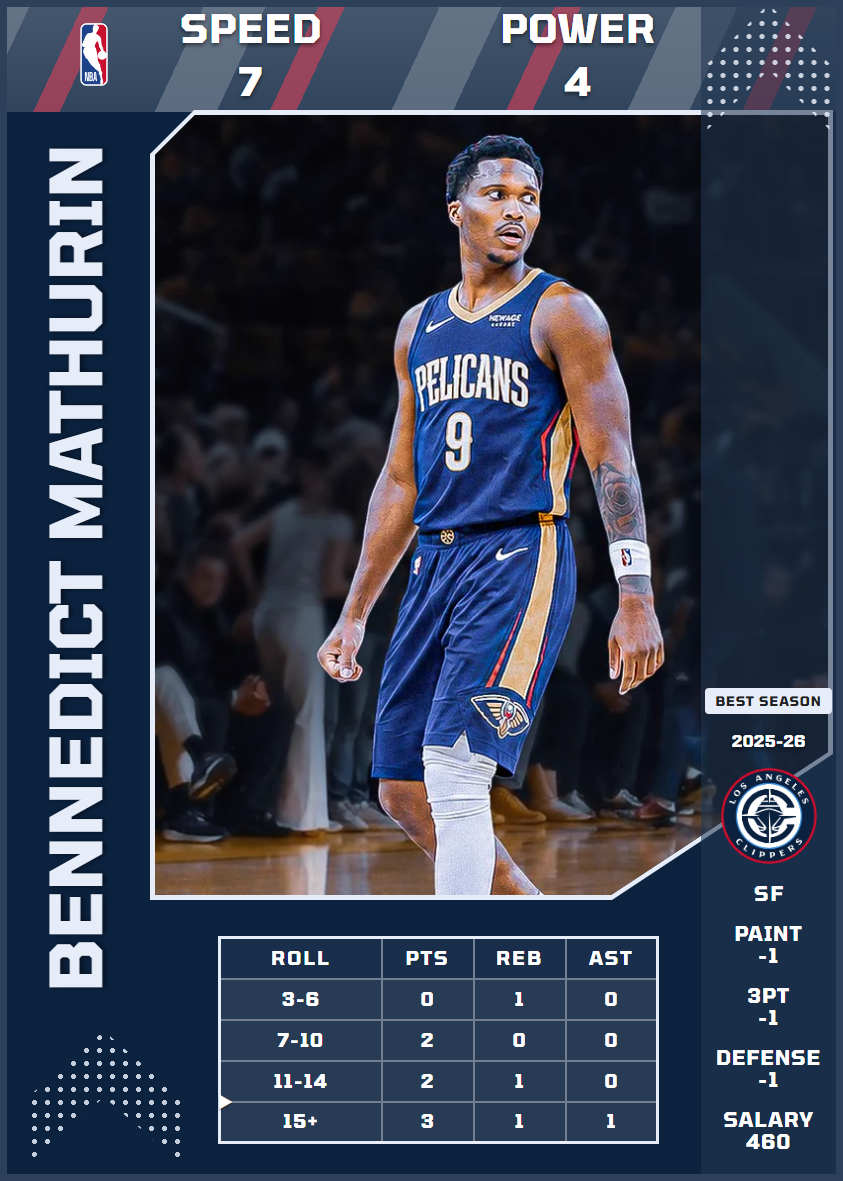
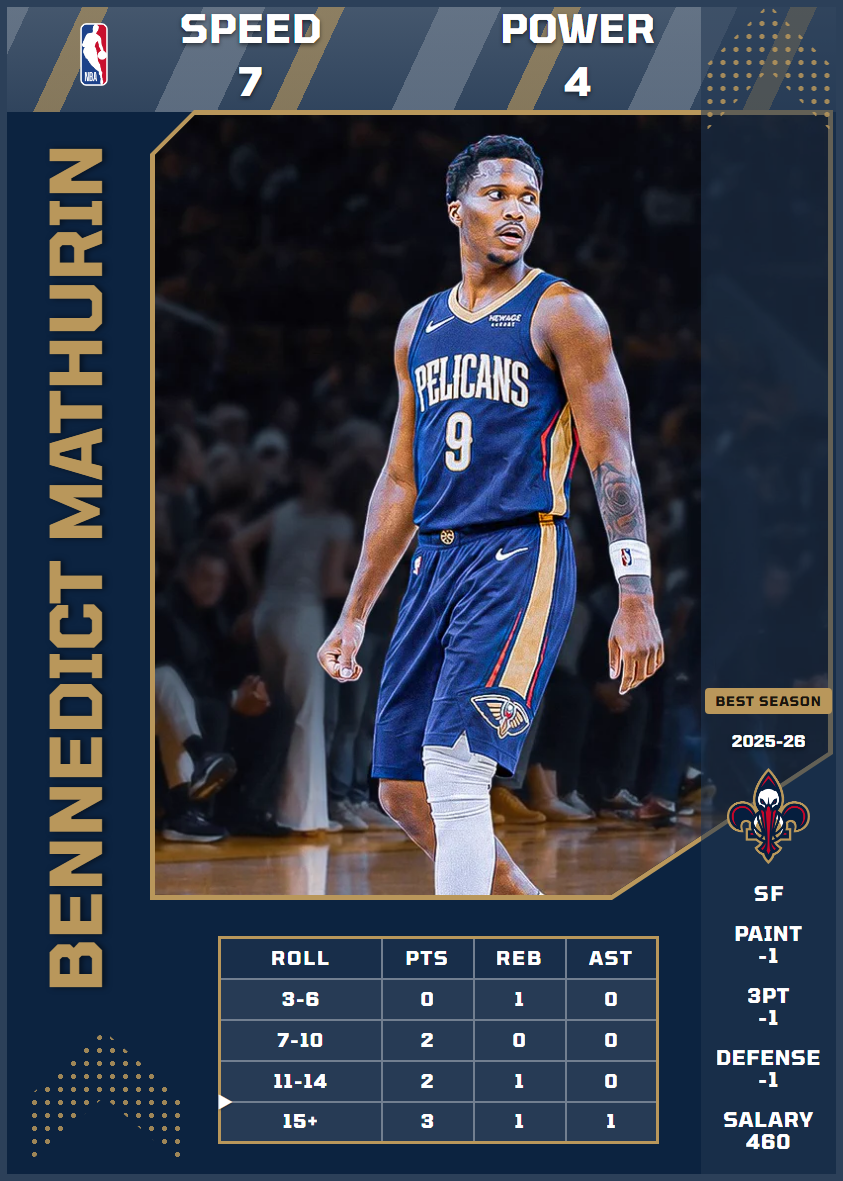
cards: Bennedict Mathurin is a Pelican, not a Clipper
The user, on the jersey audit's "Pelicans jersey, now LAC": "Looks like
the Bennedict Mathurin card is what is wrong. He's on the Pelicans now."
nba.com's roster agrees, and so did the contract entered from the user's
own screenshot on 2026-09-12. His 2026-27 card moves to NOP; nothing
else about it changes. Face re-exported.

manual-teams.json had been invalid JSON since its comment quoted the
Kawhi request with bare quotes, so generateTeams.js could not have run;
the quotes are escaped and the override is in it.

One dynasty test pinned "payroll is what it was, less one" across a
tip-off where the AI may also trade, and which trade it finds turns on
the real rosters. It now checks what it meant: nothing dead, and the
payroll is the men the team has.

diff --git a/src/game/modes/dynasty.test.js b/src/game/modes/dynasty.test.js
@@ -1678,7 +1678,13 @@ describe('waivers (2026-09-18)', () => {
     const y = startSeason(x, { rng: seeded(3) });
     expect(y.contracts[key]).toEqual({ teamId: c, dp: 1, years: 3, since: y.year, how: 'waivers' });
     expect(deadMoney(y, a)).toBe(0);
-    expect(payroll(y, a)).toBe(payroll(d, a) - 1);
+    // His salary is off A's books: nothing dead, and A's payroll is exactly the
+    // men it has now. NOT "what it was, less one" — the same tip-off lets the
+    // AI trade, and which trade it finds turns on the real rosters the league
+    // is drawn from (it took Adem Bona the day Bennedict Mathurin's card moved
+    // to New Orleans, 2026-10-02, and this line had pinned the old rosters).
+    expect(y.dead.filter(m => m.teamId === a)).toEqual([]);
+    expect(payroll(y, a)).toBe(Object.values(y.contracts).filter(k => k.teamId === a).reduce((n, k) => n + k.dp, 0));
     expect(waiverList(y)).toEqual([]);
     const name = getCardByKey(key).name;
     expect(y.news.some(n => n.text === `${teamOf(y, c).name} claimed ${name} off waivers — his salary comes off ${teamOf(y, a).name}'s books.`)).toBe(true);
